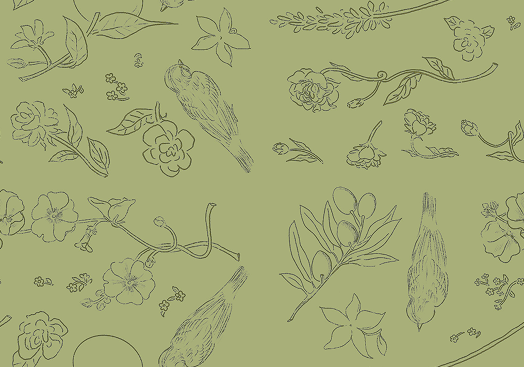
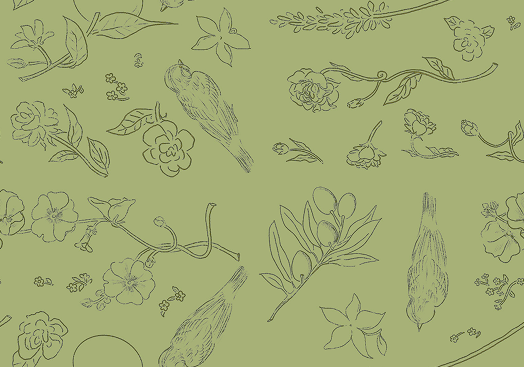
Social Media Cards

Changed region(s): [[0.4885, 0.5095, 0.7634, 0.8692]]

diff --git a/src/lib/components/projects/LebanonDisplaced/Lightbox.svelte b/src/lib/components/projects/LebanonDisplaced/Lightbox.svelte
@@ -202,8 +202,10 @@
 		position: fixed;
 		inset: 0;
 		background: #ffe0b5;
-		background-image: url('/assets/ldd/patterns/beige-paper-texture.png');
-		background-size: cover;
+		background-image: url('/assets/ldd/patterns/example-backgropund--repetitive--sofia--small.png');
+		background-repeat: repeat;
+		/* background-image: url('/assets/ldd/patterns/beige-paper-texture.png'); */
+		/* background-size: cover; */
 		display: flex;
 		justify-content: center;
 		align-items: center;
@@ -282,7 +284,7 @@
 
 	.swiper-button-prev,
 	.swiper-button-next {
-		color: black;
+		color: white;
 		z-index: 30 !important;
 		will-change: color;
 		transition: color 0.5s;
@@ -298,8 +300,8 @@
 		right: 1rem;
 		background: none;
 		border: none;
-		color: black;
-		font-size: 3rem;
+		color: white;
+		font-size: 4rem;
 		z-index: 1001;
 		cursor: pointer;
 		will-change: color;

diff --git a/src/routes/stories/2025/lebanon-displacement-diaries/ar/home/+page.svelte b/src/routes/stories/2025/lebanon-displacement-diaries/ar/home/+page.svelte
@@ -37,7 +37,13 @@
 	});
 </script>
 
-<SEO pageTitle={story.content.pageTitle} pageDescription={story.content.pageDescription} />
+<SEO
+	pageTitle={story?.content?.pageTitle}
+	pageDescription={story?.content?.pageDescription}
+	pageImage={story?.content?.socialImage?.filename
+		? `${story.content.socialImage.filename}/m/1000x552/filters:quality(50)`
+		: story.content.socialImage.filename}
+/>
 
 {#if data.error}
 	<div class="bg-red-600 text-center text-white">⚠ Error: {data.error.message}</div>

diff --git a/src/routes/stories/2025/lebanon-displacement-diaries/home/+page.svelte b/src/routes/stories/2025/lebanon-displacement-diaries/home/+page.svelte
@@ -40,7 +40,13 @@
 	});
 </script>
 
-<SEO pageTitle={story.content.pageTitle} />
+<SEO
+	pageTitle={story?.content?.pageTitle}
+	pageDescription={story?.content?.pageDescription}
+	pageImage={story?.content?.socialImage?.filename
+		? `${story.content.socialImage.filename}/m/1000x552/filters:quality(50)`
+		: story.content.socialImage.filename}
+/>
 
 {#if data.error}
 	<div class="bg-red-600 text-center text-white">⚠ Error: {data.error.message}</div>

diff --git a/src/routes/stories/2025/lebanon-displacement-diaries/ar/diaries/[slug]/+page.svelte b/src/routes/stories/2025/lebanon-displacement-diaries/ar/diaries/[slug]/+page.svelte
@@ -31,7 +31,7 @@
 	pageTitle={story?.content?.pageTitle}
 	pageDescription={story?.content?.pageDescription}
 	pageImage={story?.content?.socialImage?.filename
-		? `${story.content.socialImage.filename}/m/1200x630/filters:quality(50)`
+		? `${story.content.socialImage.filename}/m/1000x552/filters:quality(50)`
 		: story.content.socialImage.filename}
 />
 

diff --git a/src/routes/stories/2025/lebanon-displacement-diaries/diaries/[slug]/+page.svelte b/src/routes/stories/2025/lebanon-displacement-diaries/diaries/[slug]/+page.svelte
@@ -33,7 +33,7 @@
 	pageTitle={story?.content?.pageTitle}
 	pageDescription={story?.content?.pageDescription}
 	pageImage={story?.content?.socialImage?.filename
-		? `${story.content.socialImage.filename}/m/1200x630/filters:quality(50)`
+		? `${story.content.socialImage.filename}/m/1000x552/filters:quality(50)`
 		: story.content.socialImage.filename}
 />
 

diff --git a/src/lib/components/projects/LebanonDisplaced/SEO.svelte b/src/lib/components/projects/LebanonDisplaced/SEO.svelte
@@ -19,7 +19,7 @@
 
 <svelte:head>
 	{#if pageTitle}
-		<title>TNH | {pageTitle}</title>
+		<title>Lebanon Displacement Diaries | {pageTitle}</title>
 	{/if}
 
 	{#if pageDescription}

diff --git a/src/lib/components/projects/LebanonDisplaced/PullQuote.svelte b/src/lib/components/projects/LebanonDisplaced/PullQuote.svelte
@@ -54,6 +54,7 @@
 		z-index: 1;
 		font-weight: 300;
 		margin: 0 -15%;
+		box-shadow: rgba(0, 0, 0, 0.45) 0px 25px 20px -20px;
 	}
 
 	blockquote p {
